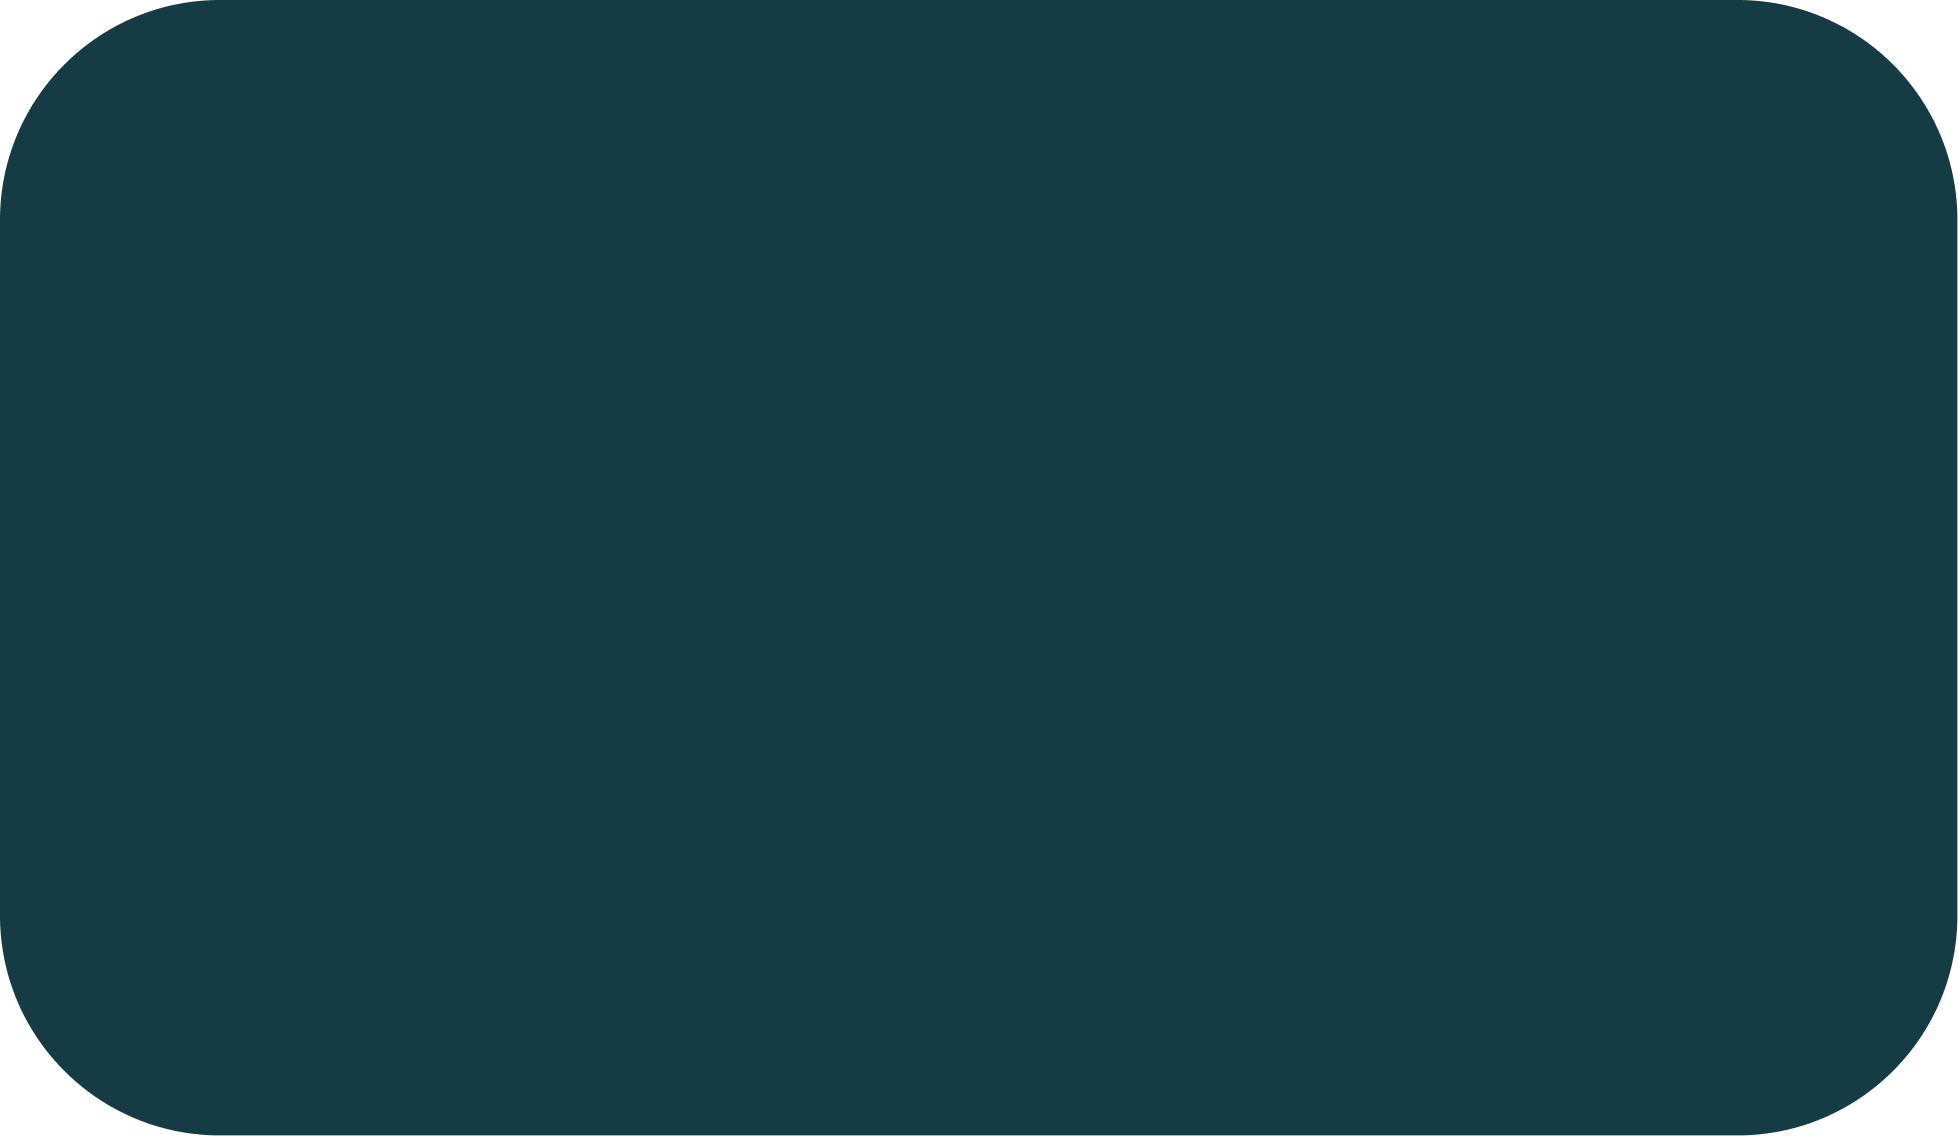
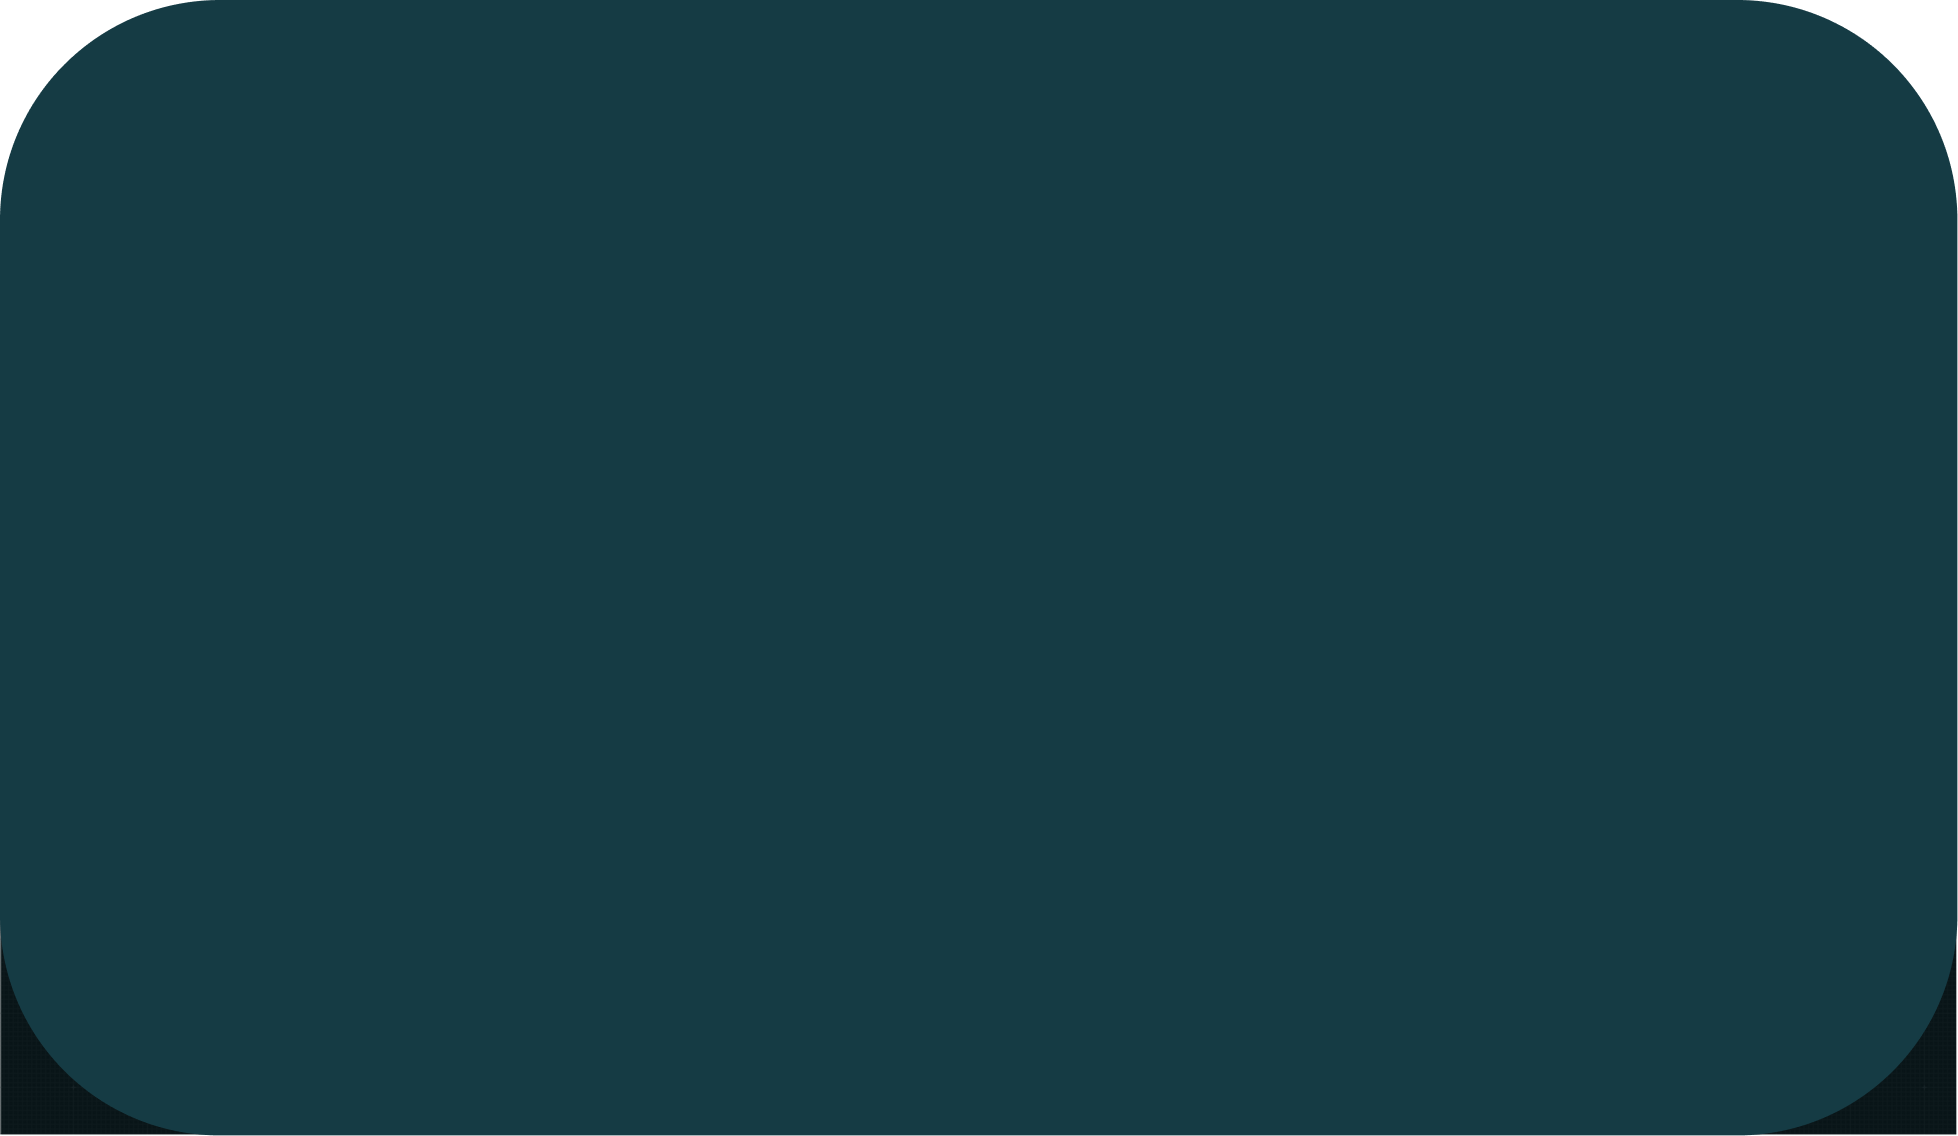
final-edits

Changed region(s): [[0.9035, 0.8319, 1.0, 1.0], [0.0, 0.8627, 0.0935, 1.0]]

diff --git a/style.css b/style.css
@@ -1550,6 +1550,30 @@ height: fit-content;border-radius: 100px;
     gap: 88px;
     background-repeat: no-repeat;}
 
+
+.footerr2 {
+    width: 100%;
+    height: fit-content;
+    background-size: cover;
+    background-image: url(pic/pic37.png);
+    background-repeat: no-repeat;
+    background-position: center;
+    flex-direction: column;
+    gap: 88px;
+    background-repeat: no-repeat;
+}
+
+.maininf0-footer-p2{
+   background-image: url(pic/pic35.png);
+    background-size: cover;border-radius: 100px;
+    background-position: top;
+    display: flex;
+    flex-direction: column;
+    gap: 88px;
+    background-repeat: no-repeat;}
+
+
+
 .container-footer {
     width: 100%;
     height: 100%;
@@ -2506,19 +2530,25 @@ gap: 87px;overflow: hidden;
   flex-shrink: 0;
 }
 
-.sec7-p2{width: 100%;
-    background-image: url(pic/pic209.png);
-    background-size: cover;
-    height: fit-content;    background-position: center;
-    border-radius: 100px;}
+.sec7-p2{    width: 100%;
+    background-image: url(pic/pic210.png);
+    background-size: auto;
+    background-repeat: no-repeat;
+    height: fit-content;
+    background-position: center bottom;}
 
 .main-info-sec7-p2 {
     width: 100%;
     height: 100%;
+    background-image: url(pic/pic209.png);
+    background-size: cover;
+    background-position: center;
     padding: 125px 7.9% 125px 7.9%;
     display: flex;
     justify-content: center;
-    position: relative;gap: 5%;
+    position: relative;
+    gap: 5%;
+    border-radius: 100px;
 }
 
 .container2-sec7-p2 {
@@ -2684,6 +2714,8 @@ height: 13px;}
 
 
 .sec8-p2{width: 100%;
+    background-image: url(pic/pic37.png);
+    background-size: cover;
 height: fit-content;}
 
 
@@ -3200,11 +3232,11 @@ gap: 30px;
 
 .first-box-sec6 {
     width: 100%;
-    aspect-ratio: 32 / 9;}
+    aspect-ratio: 31 / 9;}
 
 .sec-box-sec6 {
     width: 100%;
-    aspect-ratio: 31 / 10;}
+    aspect-ratio: 30 / 10;}
 
 
 .header-sec6 {

diff --git a/home.js b/home.js
@@ -404,14 +404,14 @@ gsap.utils.toArray(".first-box-sec6").forEach(card => {
     onEnter: () =>
       gsap.fromTo(
         card,
-        { opacity: 0, x: -200 },
+        { opacity: 0, x: -300 },
         { opacity: 1, x: 0, duration: 1, ease: "power2.out" }
       ),
 
     onEnterBack: () =>
       gsap.fromTo(
         card,
-        { opacity: 0, x: -200 },
+        { opacity: 0, x: -300 },
         { opacity: 1, x: 0, duration: 1, ease: "power2.out" }
       )
   });
@@ -428,14 +428,14 @@ gsap.utils.toArray(".sec-box-sec6").forEach(card => {
     onEnter: () =>
       gsap.fromTo(
         card,
-        { opacity: 0, x: 200 },
+        { opacity: 0, x: 300 },
         { opacity: 1, x: 0, duration: 1, ease: "power2.out" }
       ),
 
     onEnterBack: () =>
       gsap.fromTo(
         card,
-        { opacity: 0, x: 200 },
+        { opacity: 0, x: 300 },
         { opacity: 1, x: 0, duration: 1, ease: "power2.out" }
       )
   });

diff --git a/cardetails.html b/cardetails.html
@@ -510,7 +510,8 @@
 
     </main>
 
-    <footer class="footerr">
+    <footer class="footerr2">
+        <nav  class="maininf0-footer-p2">
         <nav class="container-footer">
             <img src="pic/pic36.png" class="logo-footer">
 
@@ -643,7 +644,7 @@
 
 
 
-
+</nav>
     </footer>
     
 
